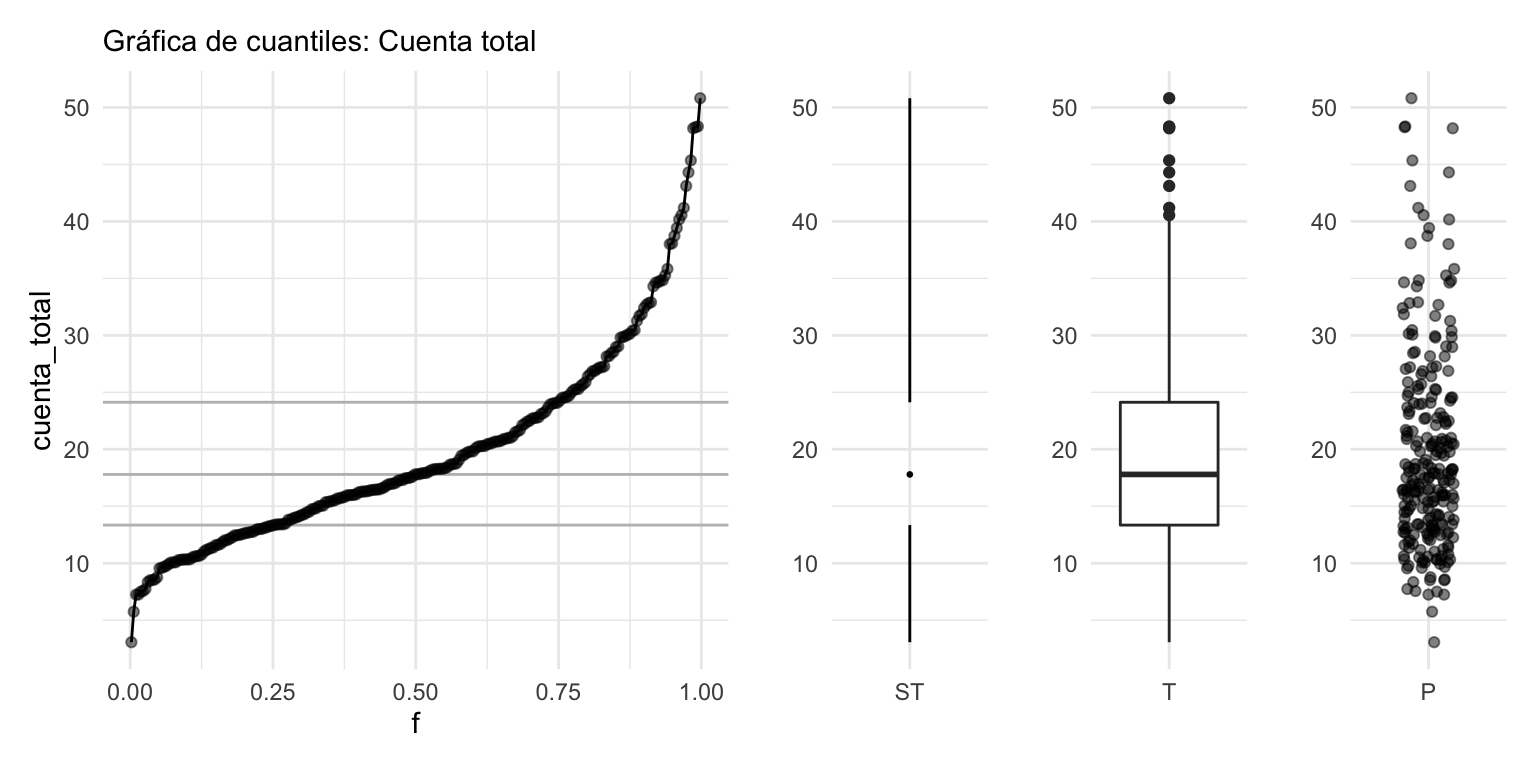
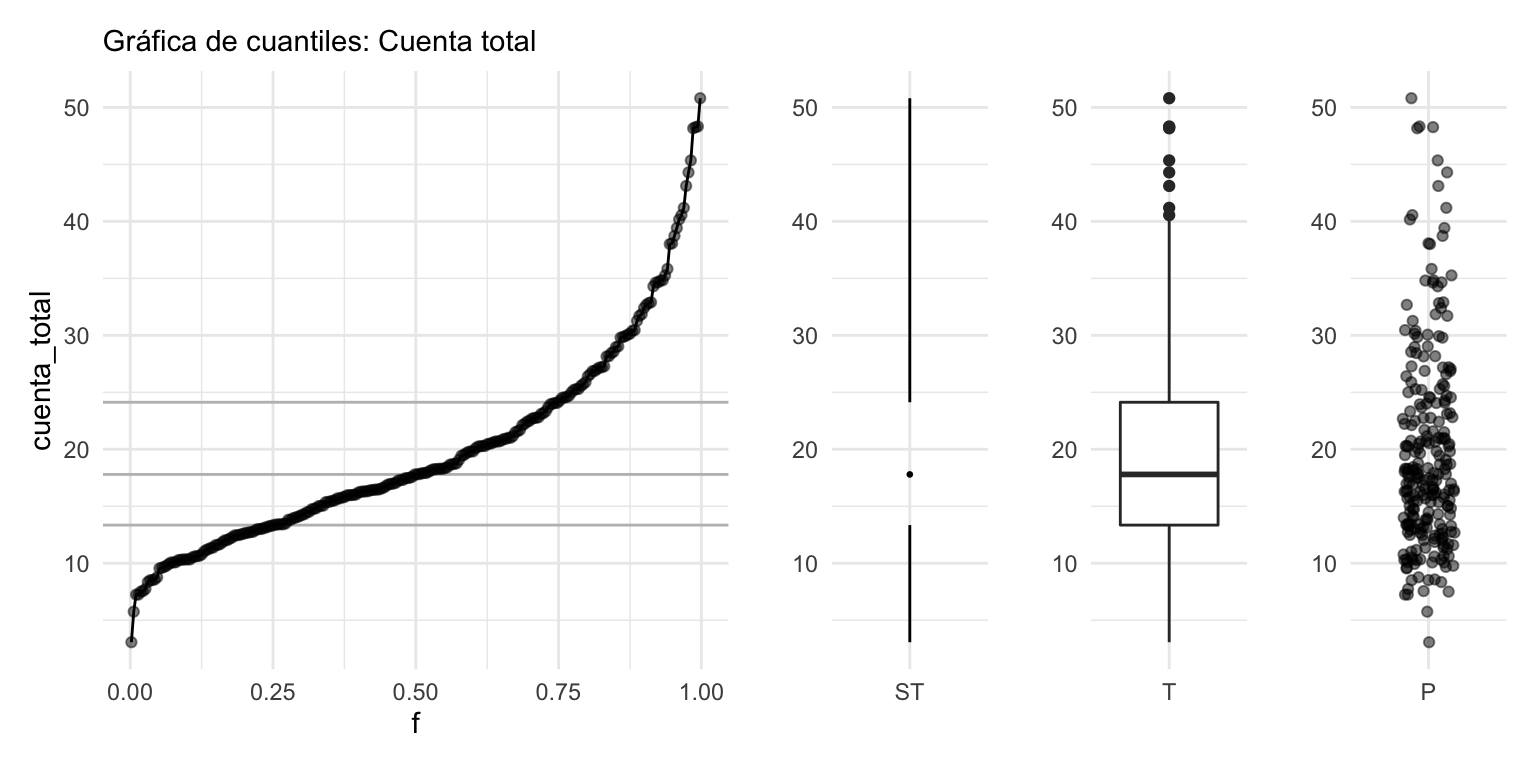
tereom published a site update

Changed region(s): [[0.9062, 0.1562, 0.9688, 0.8438]]

diff --git a/análisis-exploratorio.html b/análisis-exploratorio.html
@@ -213,6 +213,7 @@ code span.wa { color: #60a0b0; font-weight: bold; font-style: italic; } /* Warni
 <li class="chapter" data-level="" data-path="tareas.html"><a href="tareas.html#anáslisis-exploratorio"><i class="fa fa-check"></i>1. Anáslisis Exploratorio</a></li>
 <li class="chapter" data-level="" data-path="análisis-exploratorio.html"><a href="análisis-exploratorio.html#loess"><i class="fa fa-check"></i>2. Loess</a></li>
 <li class="chapter" data-level="" data-path="tareas.html"><a href="tareas.html#tipos-de-estudio-y-pgd"><i class="fa fa-check"></i>3. Tipos de estudio y PGD</a></li>
+<li class="chapter" data-level="" data-path="tareas.html"><a href="tareas.html#pruebas-de-hipótesis-visuales-y-permutación"><i class="fa fa-check"></i>4. Pruebas de hipótesis visuales y permutación</a></li>
 </ul></li>
 <li class="chapter" data-level="" data-path="referencias.html"><a href="referencias.html"><i class="fa fa-check"></i>Referencias</a></li>
 <li class="divider"></li>
@@ -312,62 +313,70 @@ cuatro días consecutivos:</p>
 </thead>
 <tbody>
 <tr class="odd">
-<td align="right">25.29</td>
-<td align="right">4.71</td>
+<td align="right">15.69</td>
+<td align="right">1.50</td>
+<td align="left">Si</td>
+<td align="left">Dom</td>
+<td align="left">Cena</td>
+<td align="right">2</td>
+</tr>
+<tr class="even">
+<td align="right">16.99</td>
+<td align="right">1.01</td>
 <td align="left">No</td>
 <td align="left">Dom</td>
 <td align="left">Cena</td>
-<td align="right">4</td>
+<td align="right">2</td>
 </tr>
-<tr class="even">
-<td align="right">18.64</td>
-<td align="right">1.36</td>
+<tr class="odd">
+<td align="right">14.15</td>
+<td align="right">2.00</td>
 <td align="left">No</td>
 <td align="left">Jue</td>
 <td align="left">Comida</td>
+<td align="right">2</td>
+</tr>
+<tr class="even">
+<td align="right">24.52</td>
+<td align="right">3.48</td>
+<td align="left">No</td>
+<td align="left">Dom</td>
+<td align="left">Cena</td>
 <td align="right">3</td>
 </tr>
 <tr class="odd">
-<td align="right">17.92</td>
-<td align="right">3.08</td>
-<td align="left">Si</td>
+<td align="right">20.92</td>
+<td align="right">4.08</td>
+<td align="left">No</td>
 <td align="left">Sab</td>
 <td align="left">Cena</td>
 <td align="right">2</td>
 </tr>
 <tr class="even">
-<td align="right">48.17</td>
+<td align="right">12.48</td>
+<td align="right">2.52</td>
+<td align="left">No</td>
+<td align="left">Jue</td>
+<td align="left">Comida</td>
+<td align="right">2</td>
+</tr>
+<tr class="odd">
+<td align="right">35.26</td>
 <td align="right">5.00</td>
 <td align="left">No</td>
 <td align="left">Dom</td>
 <td align="left">Cena</td>
-<td align="right">6</td>
-</tr>
-<tr class="odd">
-<td align="right">10.33</td>
-<td align="right">1.67</td>
-<td align="left">No</td>
-<td align="left">Dom</td>
-<td align="left">Cena</td>
-<td align="right">3</td>
-</tr>
-<tr class="even">
-<td align="right">20.45</td>
-<td align="right">3.00</td>
-<td align="left">No</td>
-<td align="left">Sab</td>
-<td align="left">Cena</td>
 <td align="right">4</td>
 </tr>
-<tr class="odd">
-<td align="right">30.46</td>
-<td align="right">2.00</td>
-<td align="left">Si</td>
+<tr class="even">
+<td align="right">23.95</td>
+<td align="right">2.55</td>
+<td align="left">No</td>
 <td align="left">Dom</td>
 <td align="left">Cena</td>
-<td align="right">5</td>
+<td align="right">2</td>
 </tr>
-<tr class="even">
+<tr class="odd">
 <td align="right">10.27</td>
 <td align="right">1.71</td>
 <td align="left">No</td>
@@ -375,17 +384,9 @@ cuatro días consecutivos:</p>
 <td align="left">Cena</td>
 <td align="right">2</td>
 </tr>
-<tr class="odd">
-<td align="right">21.01</td>
-<td align="right">3.50</td>
-<td align="left">No</td>
-<td align="left">Dom</td>
-<td align="left">Cena</td>
-<td align="right">3</td>
-</tr>
 <tr class="even">
-<td align="right">25.21</td>
-<td align="right">4.29</td>
+<td align="right">11.24</td>
+<td align="right">1.76</td>
 <td align="left">Si</td>
 <td align="left">Sab</td>
 <td align="left">Cena</td>

diff --git a/tareas.html b/tareas.html
@@ -213,6 +213,7 @@ code span.wa { color: #60a0b0; font-weight: bold; font-style: italic; } /* Warni
 <li class="chapter" data-level="" data-path="tareas.html"><a href="tareas.html#anáslisis-exploratorio"><i class="fa fa-check"></i>1. Anáslisis Exploratorio</a></li>
 <li class="chapter" data-level="" data-path="análisis-exploratorio.html"><a href="análisis-exploratorio.html#loess"><i class="fa fa-check"></i>2. Loess</a></li>
 <li class="chapter" data-level="" data-path="tareas.html"><a href="tareas.html#tipos-de-estudio-y-pgd"><i class="fa fa-check"></i>3. Tipos de estudio y PGD</a></li>
+<li class="chapter" data-level="" data-path="tareas.html"><a href="tareas.html#pruebas-de-hipótesis-visuales-y-permutación"><i class="fa fa-check"></i>4. Pruebas de hipótesis visuales y permutación</a></li>
 </ul></li>
 <li class="chapter" data-level="" data-path="referencias.html"><a href="referencias.html"><i class="fa fa-check"></i>Referencias</a></li>
 <li class="divider"></li>
@@ -297,6 +298,12 @@ involucradas?</p></li>
 <li><p>¿Cuál es la diferencia entre un experimento aleatorizado y una muestra
 aleatoria?</p></li>
 </ol>
+</div>
+<div id="pruebas-de-hipótesis-visuales-y-permutación" class="section level2 unnumbered">
+<h2>4. Pruebas de hipótesis visuales y permutación</h2>
+<p>La tarea 4 es el proyecto de RStudio.Cloud con este nombre, el ejercicio está
+en un archvio de R Markdown. Envíen el reporte por correo electrónico (con
+título fundamentos-tarea04).</p>
 
 </div>
 </div>

diff --git a/index.html b/index.html
@@ -213,6 +213,7 @@ code span.wa { color: #60a0b0; font-weight: bold; font-style: italic; } /* Warni
 <li class="chapter" data-level="" data-path="tareas.html"><a href="tareas.html#anáslisis-exploratorio"><i class="fa fa-check"></i>1. Anáslisis Exploratorio</a></li>
 <li class="chapter" data-level="" data-path="análisis-exploratorio.html"><a href="análisis-exploratorio.html#loess"><i class="fa fa-check"></i>2. Loess</a></li>
 <li class="chapter" data-level="" data-path="tareas.html"><a href="tareas.html#tipos-de-estudio-y-pgd"><i class="fa fa-check"></i>3. Tipos de estudio y PGD</a></li>
+<li class="chapter" data-level="" data-path="tareas.html"><a href="tareas.html#pruebas-de-hipótesis-visuales-y-permutación"><i class="fa fa-check"></i>4. Pruebas de hipótesis visuales y permutación</a></li>
 </ul></li>
 <li class="chapter" data-level="" data-path="referencias.html"><a href="referencias.html"><i class="fa fa-check"></i>Referencias</a></li>
 <li class="divider"></li>

diff --git a/principios-de-visualización.html b/principios-de-visualización.html
@@ -213,6 +213,7 @@ code span.wa { color: #60a0b0; font-weight: bold; font-style: italic; } /* Warni
 <li class="chapter" data-level="" data-path="tareas.html"><a href="tareas.html#anáslisis-exploratorio"><i class="fa fa-check"></i>1. Anáslisis Exploratorio</a></li>
 <li class="chapter" data-level="" data-path="análisis-exploratorio.html"><a href="análisis-exploratorio.html#loess"><i class="fa fa-check"></i>2. Loess</a></li>
 <li class="chapter" data-level="" data-path="tareas.html"><a href="tareas.html#tipos-de-estudio-y-pgd"><i class="fa fa-check"></i>3. Tipos de estudio y PGD</a></li>
+<li class="chapter" data-level="" data-path="tareas.html"><a href="tareas.html#pruebas-de-hipótesis-visuales-y-permutación"><i class="fa fa-check"></i>4. Pruebas de hipótesis visuales y permutación</a></li>
 </ul></li>
 <li class="chapter" data-level="" data-path="referencias.html"><a href="referencias.html"><i class="fa fa-check"></i>Referencias</a></li>
 <li class="divider"></li>

diff --git a/pruebas-de-hipótesis.html b/pruebas-de-hipótesis.html
@@ -213,6 +213,7 @@ code span.wa { color: #60a0b0; font-weight: bold; font-style: italic; } /* Warni
 <li class="chapter" data-level="" data-path="tareas.html"><a href="tareas.html#anáslisis-exploratorio"><i class="fa fa-check"></i>1. Anáslisis Exploratorio</a></li>
 <li class="chapter" data-level="" data-path="análisis-exploratorio.html"><a href="análisis-exploratorio.html#loess"><i class="fa fa-check"></i>2. Loess</a></li>
 <li class="chapter" data-level="" data-path="tareas.html"><a href="tareas.html#tipos-de-estudio-y-pgd"><i class="fa fa-check"></i>3. Tipos de estudio y PGD</a></li>
+<li class="chapter" data-level="" data-path="tareas.html"><a href="tareas.html#pruebas-de-hipótesis-visuales-y-permutación"><i class="fa fa-check"></i>4. Pruebas de hipótesis visuales y permutación</a></li>
 </ul></li>
 <li class="chapter" data-level="" data-path="referencias.html"><a href="referencias.html"><i class="fa fa-check"></i>Referencias</a></li>
 <li class="divider"></li>

diff --git a/referencias.html b/referencias.html
@@ -213,6 +213,7 @@ code span.wa { color: #60a0b0; font-weight: bold; font-style: italic; } /* Warni
 <li class="chapter" data-level="" data-path="tareas.html"><a href="tareas.html#anáslisis-exploratorio"><i class="fa fa-check"></i>1. Anáslisis Exploratorio</a></li>
 <li class="chapter" data-level="" data-path="análisis-exploratorio.html"><a href="análisis-exploratorio.html#loess"><i class="fa fa-check"></i>2. Loess</a></li>
 <li class="chapter" data-level="" data-path="tareas.html"><a href="tareas.html#tipos-de-estudio-y-pgd"><i class="fa fa-check"></i>3. Tipos de estudio y PGD</a></li>
+<li class="chapter" data-level="" data-path="tareas.html"><a href="tareas.html#pruebas-de-hipótesis-visuales-y-permutación"><i class="fa fa-check"></i>4. Pruebas de hipótesis visuales y permutación</a></li>
 </ul></li>
 <li class="chapter" data-level="" data-path="referencias.html"><a href="referencias.html"><i class="fa fa-check"></i>Referencias</a></li>
 <li class="divider"></li>

diff --git a/tipos-de-estudio-y-experimentos.html b/tipos-de-estudio-y-experimentos.html
@@ -213,6 +213,7 @@ code span.wa { color: #60a0b0; font-weight: bold; font-style: italic; } /* Warni
 <li class="chapter" data-level="" data-path="tareas.html"><a href="tareas.html#anáslisis-exploratorio"><i class="fa fa-check"></i>1. Anáslisis Exploratorio</a></li>
 <li class="chapter" data-level="" data-path="análisis-exploratorio.html"><a href="análisis-exploratorio.html#loess"><i class="fa fa-check"></i>2. Loess</a></li>
 <li class="chapter" data-level="" data-path="tareas.html"><a href="tareas.html#tipos-de-estudio-y-pgd"><i class="fa fa-check"></i>3. Tipos de estudio y PGD</a></li>
+<li class="chapter" data-level="" data-path="tareas.html"><a href="tareas.html#pruebas-de-hipótesis-visuales-y-permutación"><i class="fa fa-check"></i>4. Pruebas de hipótesis visuales y permutación</a></li>
 </ul></li>
 <li class="chapter" data-level="" data-path="referencias.html"><a href="referencias.html"><i class="fa fa-check"></i>Referencias</a></li>
 <li class="divider"></li>

diff --git a/02-exploratorio.md b/02-exploratorio.md
@@ -89,16 +89,16 @@ sample_n(propinas, 10) %>% formatear_tabla()
 
 | cuenta_total| propina|fumador |dia |momento | num_personas|
 |------------:|-------:|:-------|:---|:-------|------------:|
-|        25.29|    4.71|No      |Dom |Cena    |            4|
-|        18.64|    1.36|No      |Jue |Comida  |            3|
-|        17.92|    3.08|Si      |Sab |Cena    |            2|
-|        48.17|    5.00|No      |Dom |Cena    |            6|
-|        10.33|    1.67|No      |Dom |Cena    |            3|
-|        20.45|    3.00|No      |Sab |Cena    |            4|
-|        30.46|    2.00|Si      |Dom |Cena    |            5|
+|        15.69|    1.50|Si      |Dom |Cena    |            2|
+|        16.99|    1.01|No      |Dom |Cena    |            2|
+|        14.15|    2.00|No      |Jue |Comida  |            2|
+|        24.52|    3.48|No      |Dom |Cena    |            3|
+|        20.92|    4.08|No      |Sab |Cena    |            2|
+|        12.48|    2.52|No      |Jue |Comida  |            2|
+|        35.26|    5.00|No      |Dom |Cena    |            4|
+|        23.95|    2.55|No      |Dom |Cena    |            2|
 |        10.27|    1.71|No      |Dom |Cena    |            2|
-|        21.01|    3.50|No      |Dom |Cena    |            3|
-|        25.21|    4.29|Si      |Sab |Cena    |            2|
+|        11.24|    1.76|Si      |Sab |Cena    |            2|
 
 
 Aquí la unidad de observación es una cuenta particular. Tenemos tres mediciones

diff --git a/98-tareas.md b/98-tareas.md
@@ -63,3 +63,10 @@ involucradas?
 
 2. ¿Cuál es la diferencia entre un experimento aleatorizado y una muestra 
 aleatoria?
+
+
+## 4. Pruebas de hipótesis visuales y permutación {-}
+
+La tarea 4 es el proyecto de RStudio.Cloud con este nombre, el ejercicio está
+en un archvio de R Markdown. Envíen el reporte por correo electrónico (con 
+título fundamentos-tarea04).
